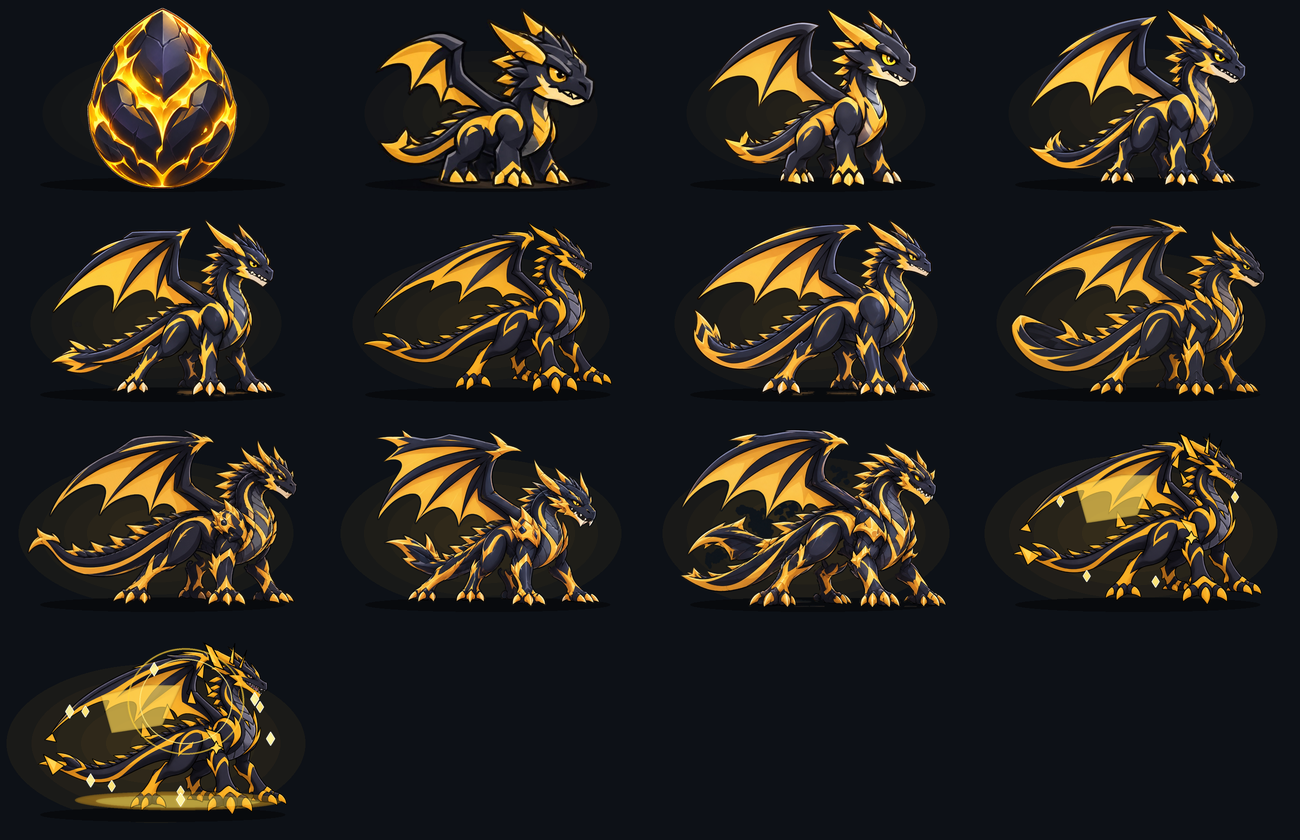
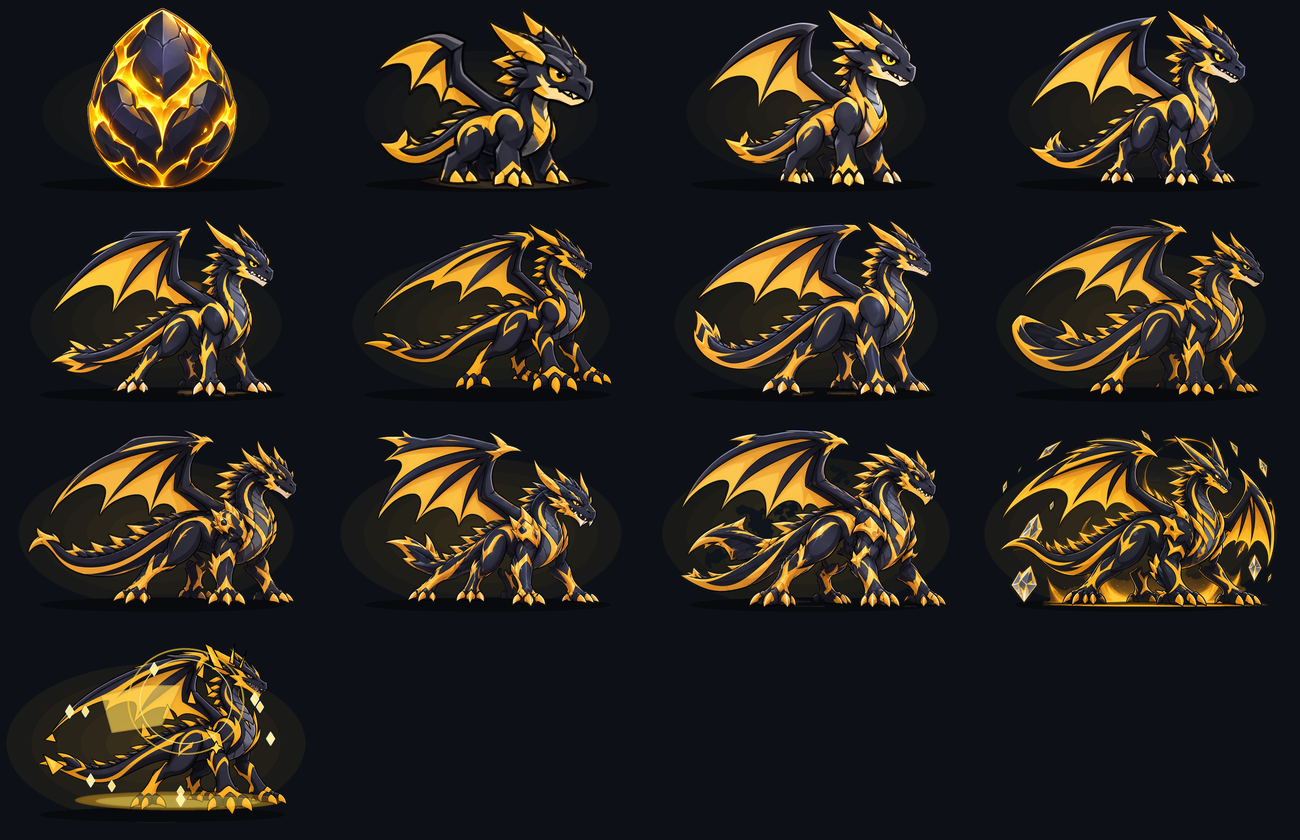
Update Stage 12 Celestial Dragon with authentic high-res illustrated dragon & kinematics

Changed region(s): [[0.7692, 0.4952, 0.9846, 0.7429]]

diff --git a/drago/sprite_animator.py b/drago/sprite_animator.py
@@ -66,6 +66,8 @@ class SpriteAnimator:
             return (int(w * 0.843), int(h * 0.394))  # ~ (828, 306) for 982x777
         if '11_dragon_lord' in self.sprite_path or getattr(self.state, 'stage_level', 0) == 11:
             return (int(w * 0.873), int(h * 0.342))  # ~ (878, 230) for 1006x673
+        if '12_celestial_dragon' in self.sprite_path or getattr(self.state, 'stage_level', 0) == 12:
+            return (int(w * 0.731), int(h * 0.453))  # ~ (721, 286) for 986x631
 
         # Head is generally in upper-right quadrant
         head_region = arr[:int(h * 0.55), int(w * 0.55):]
